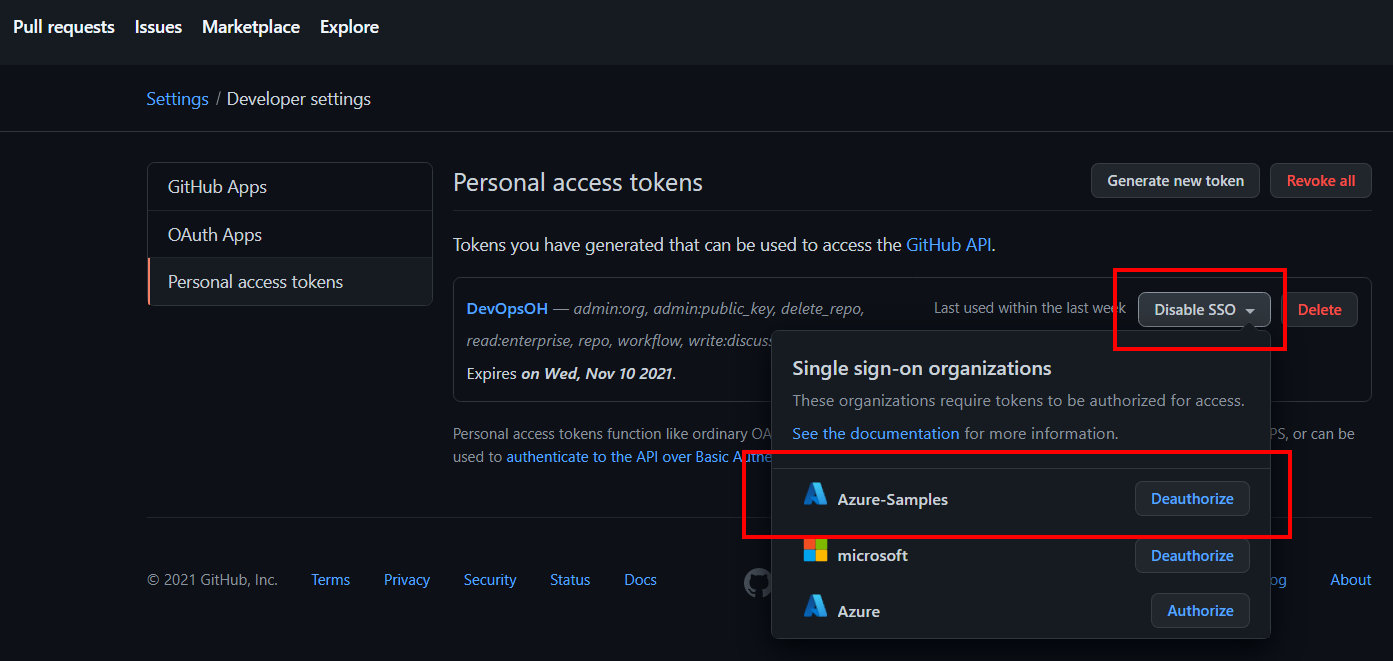
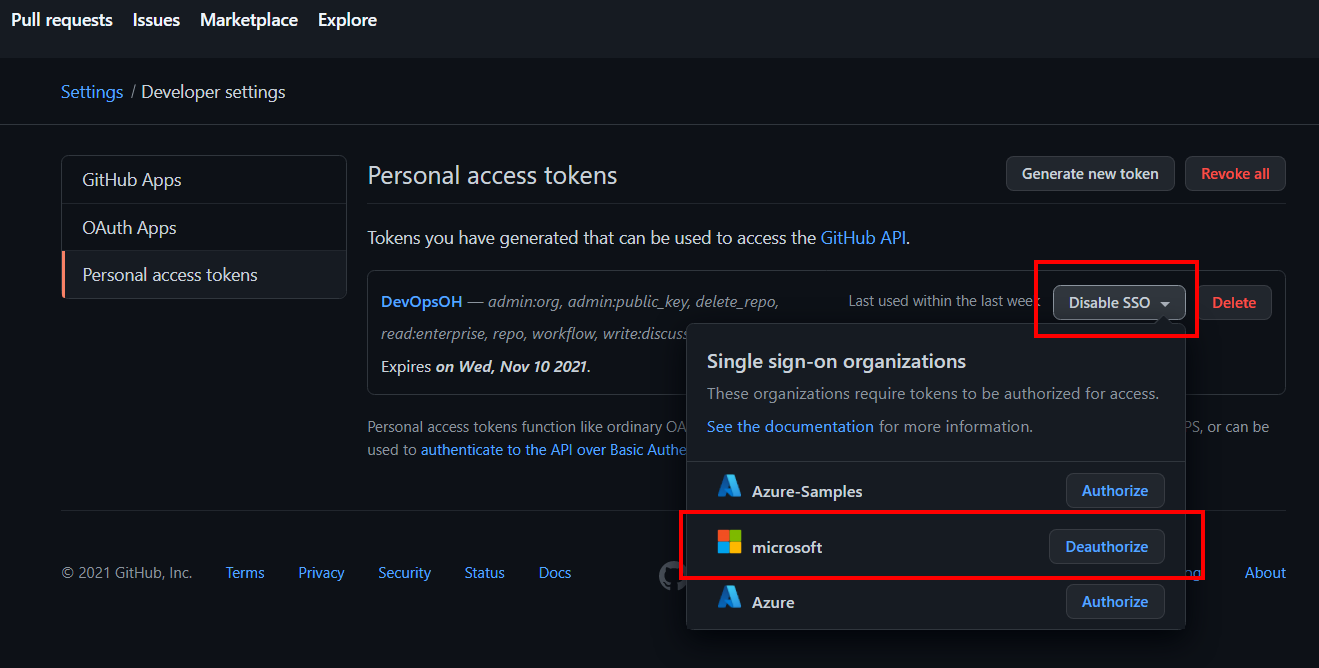
Personal Access token issue update

diff --git a/byos/devops/GH.md b/byos/devops/GH.md
@@ -80,11 +80,15 @@ Login to your [GitHub](https://github.com) account and [Create a Personal Access
 
 > **GitHub Personal Access Token authorization for use with SAML single sign-on**
 >
-> In some cases, if your GitHub account is associated with an organization that uses SAML single sign-on (SSO), you must first authorize the token. Follow this guide on how to do it: [Authorizing a personal access token for use with SAML single sign-on](https://docs.github.com/en/authentication/authenticating-with-saml-single-sign-on/authorizing-a-personal-access-token-for-use-with-saml-single-sign-on)
+> If the GitHub organization you are planing on using to provision the environment uses SAML single sign-on (SSO)
+>
+> ![](../images/SAML_SSO.png)
+>
+> you must first authorize the token to access this organization. Follow this guide on how to do it: [Authorizing a personal access token for use with SAML single sign-on](https://docs.github.com/en/authentication/authenticating-with-saml-single-sign-on/authorizing-a-personal-access-token-for-use-with-saml-single-sign-on)
 > 
-> Authorization of the PAT for single sign on for the Azure Samples repository
-> 
->![](../images/GHSingleSignOn.png)
+> **Note** The deployment script uses a repository template from a Microsoft organization that has the SAML Signle Sign On enabled so you need to authorize your PAT for the Microsoft organization.
+>
+> ![](../images/GHSingleSignOn.png)
 
 Then set environment variable `GITHUB_TOKEN` with generated token.
 
